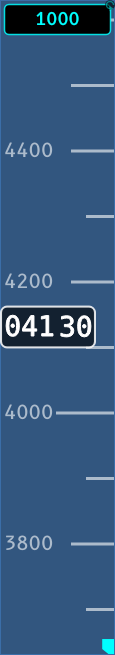
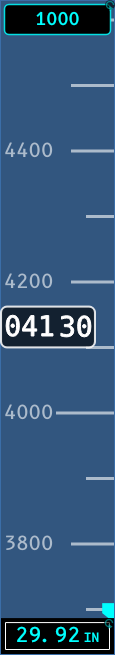
docs: re-render ALTSEL evidence with the baro box on the tape (AER-3915)

Changed region(s): [[0.0, 0.916, 0.9913, 1.0]]

diff --git a/docs/images/aer3915_altsel/README.md b/docs/images/aer3915_altsel/README.md
@@ -2,18 +2,18 @@
 
 Rendered **on the Pi 5 test unit** (`wpballard@10.110.10.199`, the Pi's own
 B612 font and PyQt6 from `~/pyEfis/.venv`) from a throwaway clone of branch
-`aer-3915/tk5-altsel` at `e4beb35`, with `QT_QPA_PLATFORM=offscreen`. The tape
+`aer-3915/tk5-altsel` at `3619be6` (after TK3's baro box was merged in), with `QT_QPA_PLATFORM=offscreen`. The tape
 is a QPainter-drawn `QGraphicsView`, not GL, so an offscreen render is the same
 pixels the panel draws. The Pi's live display was not touched. There is no
 SIGUSR1 screenshot on the Pi (AER-2002).
 
 Size is the live panel's: the `altimeter_tape` in `managed_MAP_CTL_TEST.yaml`
 is 12 x 60 cells of the 200 x 110 grid at 1920 x 1200, i.e. **115 x 655 px**.
-ALT is 4130 ft in every frame.
+ALT is 4130 ft and BARO 29.92 in every frame; the baro box (#311) is the strip at the bottom.
 
 | File | What it shows |
 |---|---|
-| `sheet_1x.png` | **Actual size**, left to right: at rest (ALTSEL 4500, dim edit icon on), focused by a real touch through `EncoderController`, ALTSEL 9000 (bug pegged half-visible under the box), ALTSEL 1000 (bug pegged at the bottom edge), ALTSEL failed (dashes, no bug). |
+| `sheet_1x.png` | **Actual size**, left to right: at rest (ALTSEL 4500, dim edit icon on), focused by a real touch through `EncoderController`, ALTSEL 9000 (bug pegged half-visible under the box), ALTSEL 1000 (bug pegged at the bottom of the scale, above the baro box), ALTSEL failed (dashes, no bug). |
 | `box_zoom4x.png` | The box at rest, focused and with no value, nearest-neighbour **4x**. |
 | `{rest,focused,above,below,novalue}_1x.png` | The individual frames. |
 
@@ -29,7 +29,7 @@ Bus check against a running fix-gateway (restores ALTSEL afterwards):
 QT_QPA_PLATFORM=offscreen PYTHONPATH=src python3 tools/render_altsel_evidence.py --live 127.0.0.1:3490
 ```
 
-Run on the Pi on 2026-10-26 against the live gateway:
+Run on the Pi on 2026-10-27 against the live gateway, at `3619be6` (output identical to the first run on 2026-10-26 at `e4beb35`). Every netfix connect is retried: the gateway's netfix server can refuse a back-to-back connect (billmallard/fix-gateway#43), which once left ALTSEL unrestored before the retry was added.
 
 ```
 gateway ALTSEL before: 3000   ALT: 2013.5
